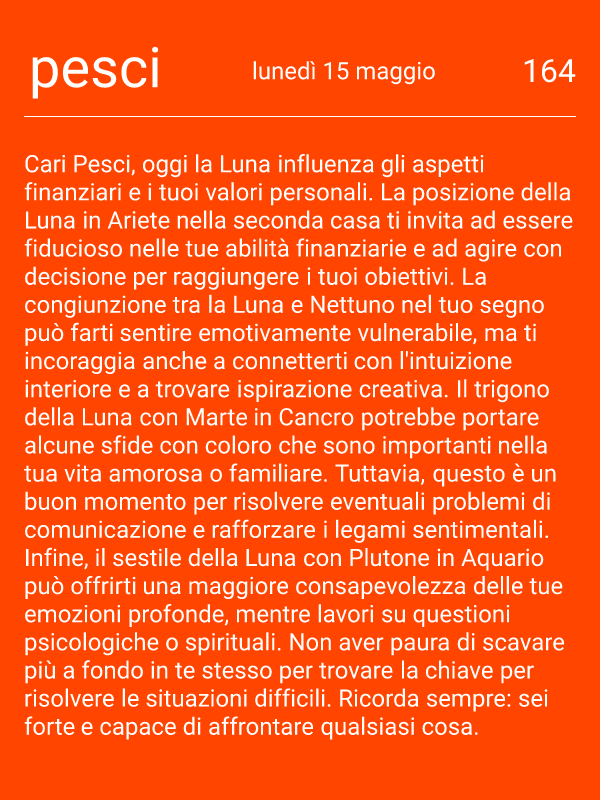
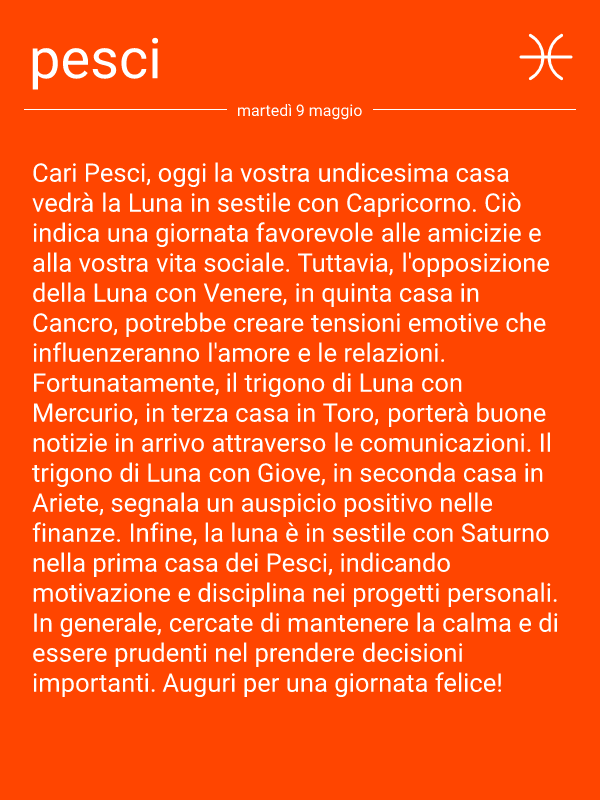
new cards styling

diff --git a/cards/template-good.js b/cards/template-good.js
@@ -16,8 +16,7 @@ const zodiacIcons = {
 export function generateTemplate(sign, horoscope, dateString) {
     const textLength = horoscope.split(' ').length
     console.log('TEXTLENGTH', textLength)
-    // const textFontSize = textLength <= 125 ? '1.7rem' : textLength <= 135? '1.6rem' :'1.4rem'
-    const textFontSize = horoscope.length <= 800 ? '1.7rem' : horoscope.length <= 935 ? '1.6rem' : horoscope.length <= 1000 ? '1.5rem' : '1.4rem'
+    const textFontSize = textLength <= 125 ? '1.7rem' : textLength <= 135? '1.6rem' :'1.5rem'
   return `  <div
     style="
       display: flex;
@@ -37,37 +36,33 @@ export function generateTemplate(sign, horoscope, dateString) {
   border-bottom: 1px solid white;
   justify-content: space-between;
   align-items: center;
-  padding: 0;
-  padding-bottom: 1.2rem;
-  position: relative;
-  z-index: -1;
   
   ">
 
+      <div style="display: flex;  opacity: 1;
+      align-items: center;
+      justify-content: space-between;
 
-    
-      <h3 style="font-weight: lighter;  margin:0 .3rem; font-size:3.5rem;">${sign}</h3>
-      <img src=${zodiacIcons[sign]} width="60px"alt="" style=""/>
+      padding-bottom: .5rem;
       
+      
+      ">
+      <h3 style="font-weight: lighter;  margin:0 .3rem; font-size:3.5rem;">${sign}</h3>
+      </div>
+      <p
+      style=" font-size: 1.3rem;"
+      >${dateString} </p>
+      <img src=${zodiacIcons[sign]} width="50px"alt="" style="margin-left: auto"/>
   </div>
-  <p style=" 
-  margin: 0 auto;
-  align-self: center;
-  justify-self: center;
-  position: relative;
-  transform: translateY(-50%);
-  background: orangered;
-  padding: 10px;
-  font-size: 1rem; margin: 0;">${dateString} </p>
 
     <p
       style="
-     
+      
+      
         color: #fff;
         display: flex;
         flex-direction: column;
-        font-size: ${textFontSize};
-        margin: .5rem;
+        font-size: ${textFontSize}
         
       "
     >

diff --git a/index.js b/index.js
@@ -15,8 +15,8 @@ dotenv.config();
 async function main() {
   try {
     const day = 2
-    await generateAllImages(0)
-// await tweetAllImages(0)
+    await generateAllImages(-7)
+// await tweetAllImages(1)
 //     const day = 3 // 0 === today, 1 === tomorrow , -1 yesterday
 //     const {dateColons, dateDashes} = getFormattedDate(0)
 // const data = await getDataFromDB(dateDashes)
